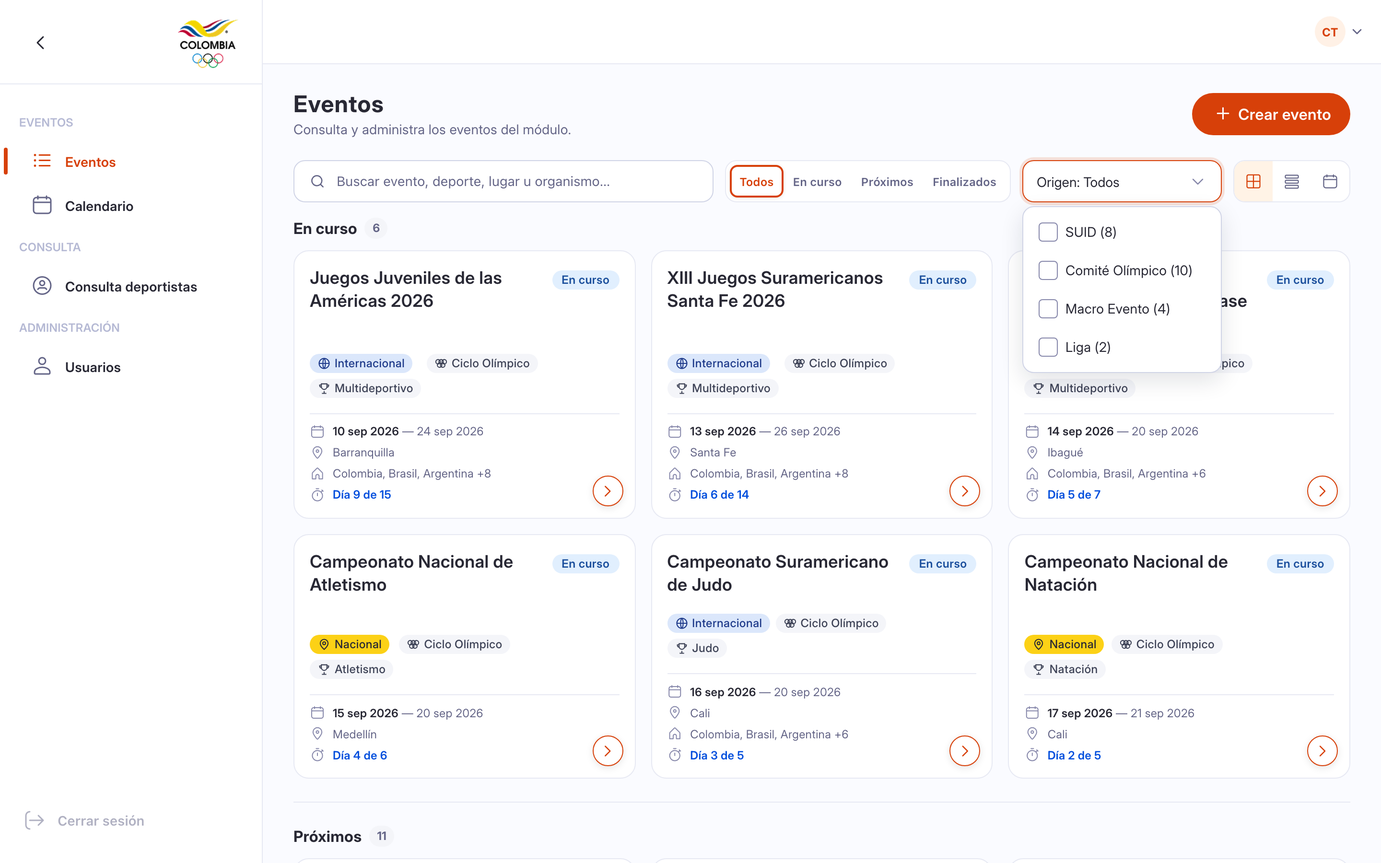
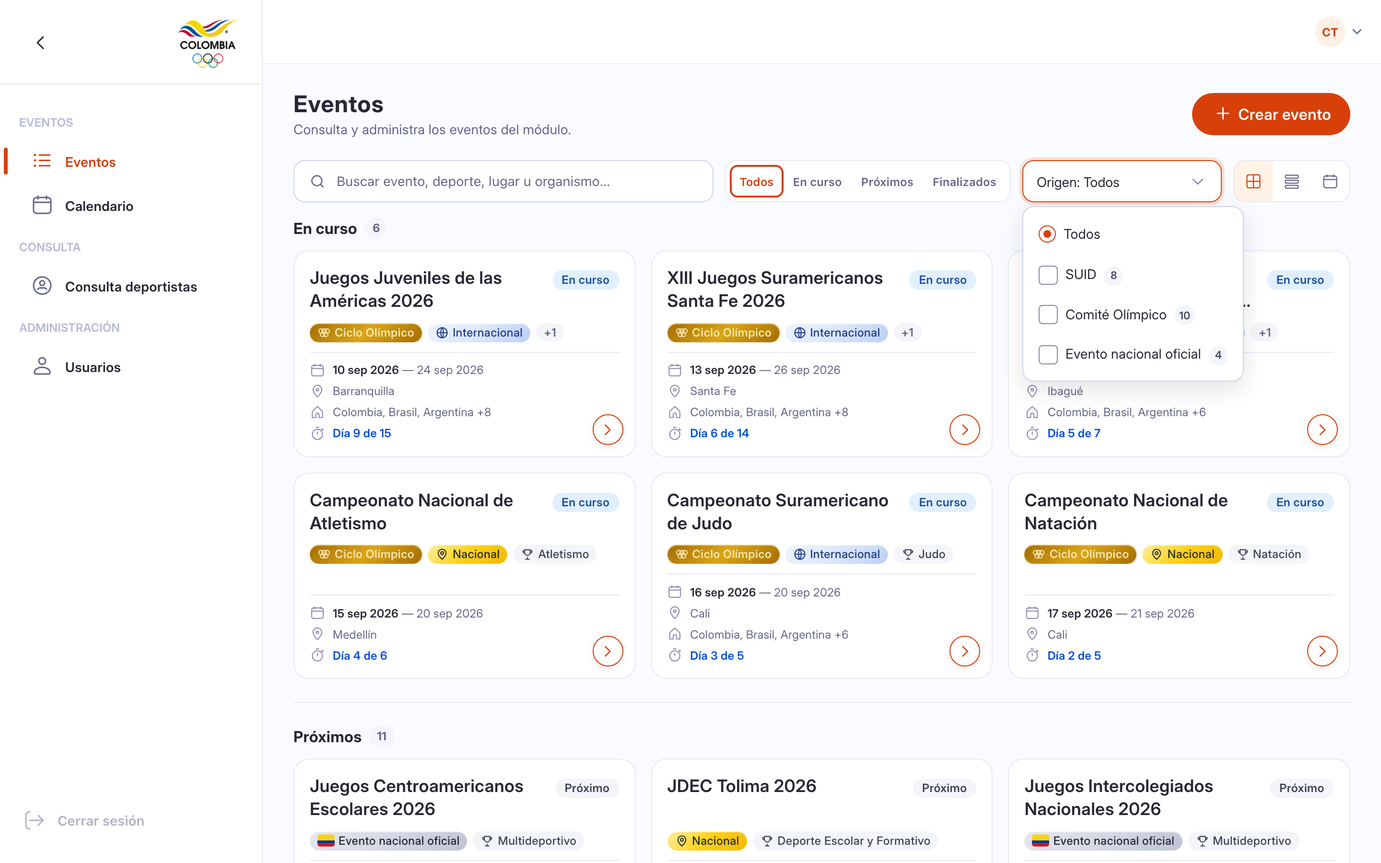
:memo: Propuesta de eventos SUID v6: Solo SUID por defecto, Comité y Liga ocultos, panel con casos

diff --git a/propuesta/index.html b/propuesta/index.html
@@ -3,7 +3,7 @@
 <head>
 <meta charset="utf-8">
 <meta name="viewport" content="width=device-width, initial-scale=1">
-<title>Eventos en SUID · Propuesta v5</title>
+<title>Eventos en SUID · Propuesta v6</title>
 <style>
 @font-face{font-family:Inter;font-weight:400;src:url(fonts/inter-regular.ttf)}
 @font-face{font-family:Inter;font-weight:500;src:url(fonts/inter-medium.ttf)}
@@ -141,7 +141,7 @@ figure{margin:0}.grid3{grid-template-columns:repeat(3,minmax(0,1fr))}.row{displa
 <main id="stage" tabindex="-1" aria-live="polite">
 <section class="slide cover" aria-label="Portada">
  <svg class="rings" width="260" height="170" viewBox="0 0 260 170" aria-hidden="true" fill="none" stroke-width="7"><circle cx="70" cy="60" r="50" stroke="#7F8DE0"/><circle cx="130" cy="108" r="50" stroke="#FFB48A"/><circle cx="190" cy="60" r="50" stroke="#7F8DE0"/></svg>
- <p class="kick">Naowee · Módulo Eventos · Versión 5</p>
+ <p class="kick">Naowee · Módulo Eventos · Versión 6</p>
  <h1>Cómo SUID crea, edita y consulta eventos</h1>
  <p class="lead">Qué eventos puede crear cada persona, qué ve en cada uno y qué falta confirmar con el equipo de backend. 30 de octubre de 2026 · Naowee</p>
  <div class="foot"><span>Datos ilustrativos · Prototipo de diseño · No refleja producción</span><span>1</span></div>
@@ -151,11 +151,12 @@ figure{margin:0}.grid3{grid-template-columns:repeat(3,minmax(0,1fr))}.row{displa
 <p class="kick">Punto de partida</p>
  <h2>Todos usan el mismo sistema; cada rol ve y hace cosas distintas</h2>
  <div class="cols">
-  <ul class="l" style="flex:1;margin-top:0;font-size:21px">
+  <ul class="l" style="flex:1;margin-top:0;font-size:19px">
    <li>Cada evento tiene un tipo guardado en el sistema (<code>event_type</code>): sencillo, completo o de Liga.</li>
-   <li><b>Evento sencillo</b> (LITE): lo crea SUID o el Comité Olímpico. <b>Evento completo</b> (FULL): vive en otro sistema. <b>Liga</b> (ULTRA_LITE): lo crea una liga.</li>
+   <li><b>Evento sencillo</b> (LITE): lo crea SUID o el Comité Olímpico. <b>Evento completo</b> (FULL): vive en otro sistema. <b>Liga</b> (ULTRA_LITE): lo crea una liga. Por ahora la demo la deja oculta.</li>
    <li>SUID puede editar un evento sencillo con el rol correcto. Un evento completo nunca se edita aquí.</li>
    <li>El sistema solo limita lo que ve el Comité Olímpico: únicamente sus eventos.</li>
+   <li>En la demo, «Roles SUID» viene en «Solo SUID»: ven y gestionan solo eventos SUID. «Ver todo» es a futuro.</li>
   </ul>
   <div style="width:340px;background:var(--navy);color:#fff;border-radius:14px;padding:26px">
    <p style="font-size:13px;letter-spacing:.1em;text-transform:uppercase;color:#FFB48A;font-weight:700">De dónde sale esto</p>
@@ -163,7 +164,7 @@ figure{margin:0}.grid3{grid-template-columns:repeat(3,minmax(0,1fr))}.row{displa
    <p style="font-size:15px;color:#C9CCE0;margin-top:12px">Todavía no se comprobó en producción.</p>
   </div>
  </div>
- <div class="band"><div><b>Protagonista</b>Lo que SUID crea y edita: eventos propios, de cinco tipos.</div><div><b>Solo consulta</b>Eventos del Comité, completos y de Liga: SUID los ve, no los edita.</div><div><b>Novedad v5</b>Pestañas por tipo y por rol, países obligatorios y calendario con aviso.</div></div>
+ <div class="band"><div><b>Protagonista</b>Lo que SUID crea y edita: eventos propios, de cinco tipos.</div><div><b>Solo consulta (a futuro)</b>Con «Ver todo», SUID también vería eventos del ciclo y completos, sin editarlos.</div><div><b>Novedad v6</b>Por defecto «Solo SUID»; Comité y Liga ocultos en la demo; panel con casos por rol.</div></div>
  <div class="foot"><span>Datos ilustrativos · Prototipo de diseño · No refleja producción</span><span>2</span></div>
 </section>
 
@@ -239,9 +240,9 @@ figure{margin:0}.grid3{grid-template-columns:repeat(3,minmax(0,1fr))}.row{displa
  <table style="font-size:18px;margin-top:16px"><thead><tr><th style="width:36%">Evento</th><th>Pestañas con un rol SUID</th></tr></thead><tbody>
  <tr><td>Competitivo SUID</td><td>Información · Cargas · Deportes · Organizaciones · Analítica</td></tr>
  <tr><td>No competitivo SUID</td><td>Información · Organizaciones · Analítica</td></tr>
- <tr><td>Del ciclo olímpico (solo consulta)</td><td>Información · Deportes · Organizaciones · Analítica</td></tr>
- <tr><td>Evento completo</td><td>Información · Deportes</td></tr>
- <tr><td>Liga</td><td>Información</td></tr>
+ <tr><td>Del ciclo olímpico (solo consulta, a futuro con «Ver todo»)</td><td>Información · Deportes · Organizaciones · Analítica</td></tr>
+ <tr><td>Evento completo (a futuro con «Ver todo»)</td><td>Información · Deportes</td></tr>
+ <tr><td>Liga (oculta por ahora)</td><td>Información</td></tr>
  </tbody></table>
  <p class="note" style="margin-top:20px;font-size:17px"><b>Solo para roles del Comité</b>Metodólogos, Calendario y resultados, Medallería y Boletines. Un rol SUID no los ve, ni siquiera en eventos SUID. <span class="tag">Decisión</span></p>
  <p class="note" style="font-size:16px"><b>Por qué</b>En un evento completo, el backend solo entrega Información y Deportes; lo demás responde error 501. <span class="tag inf">Javi</span></p>
@@ -252,9 +253,9 @@ figure{margin:0}.grid3{grid-template-columns:repeat(3,minmax(0,1fr))}.row{displa
 <p class="kick">Quién crea y quién edita</p>
  <h2 style="font-size:32px">Cada rol crea y edita solo lo suyo; lo ajeno solo se consulta</h2>
  <table style="font-size:17px;margin-top:16px"><thead><tr><th style="width:30%">Rol</th><th>Crea y edita</th><th>Solo consulta</th></tr></thead><tbody>
- <tr><td>Rol SUID (Admin Naowee)</td><td>Eventos SUID. En los eventos del ciclo no se edita.</td><td>Ciclo olímpico, completos y Liga</td></tr>
+ <tr><td>Rol SUID (Admin Naowee)</td><td>Eventos SUID. En los eventos del ciclo no se edita.</td><td>Hoy nada. A futuro, con «Ver todo»: ciclo olímpico y completos. Liga, oculta por ahora.</td></tr>
  <tr><td>Rol del Comité con permiso de crear <span class="tag">Propuesto</span></td><td>Eventos del ciclo olímpico, marcados solos</td><td>SUID, completos y Liga</td></tr>
- <tr><td>Cualquier rol</td><td>Nadie crea ni edita eventos completos ni de Liga</td><td>Completos y Liga</td></tr>
+ <tr><td>Cualquier rol</td><td>Nadie crea ni edita eventos completos ni de Liga</td><td>Completos. Liga, oculta por ahora.</td></tr>
  </tbody></table>
  <p class="note" style="margin-top:18px;font-size:16px"><b>De dónde sale</b>Es decisión de diseño de Jorge. <span class="tag">Decisión</span> Pero hoy, en el código real, «ciclo olímpico» es un interruptor del mismo formulario que usan Admin Naowee y el superusuario (SUV2&#8209;1741). Los roles del Comité no pueden crear eventos.</p>
  <p class="note" style="font-size:16px"><b>Falta confirmar con Javi</b>La regla necesita un «Administrador del Comité» que hoy no existe en el backend. <span class="tag">Por confirmar</span></p>
@@ -265,7 +266,7 @@ figure{margin:0}.grid3{grid-template-columns:repeat(3,minmax(0,1fr))}.row{displa
 <p class="kick">La regla en pantalla</p>
  <h2 style="font-size:32px">Con rol SUID, un evento del ciclo no se edita; el rol del Comité propuesto sí crea</h2>
  <div class="row">
-  <figure style="width:548px"><div class="cp" style="width:548px;height:347px"><img src="img/27-detalle-coc-sin-editar.png" alt="Detalle de un evento del ciclo olímpico con rol SUID, sin botón de edición" style="width:130.72%;left:-27.78%;top:-14.84%"></div><figcaption class="cap"><b>Ciclo olímpico con rol SUID</b> Sin botón «Editar evento». Se ven Información, Deportes, Organizaciones y Analítica.</figcaption></figure>
+  <figure style="width:548px"><div class="cp" style="width:548px;height:347px"><img src="img/27-detalle-coc-sin-editar.png" alt="Detalle de un evento del ciclo olímpico con rol SUID, sin botón de edición" style="width:130.72%;left:-27.78%;top:-14.84%"></div><figcaption class="cap"><b>Ciclo olímpico con rol SUID (a futuro, con «Ver todo»)</b> Sin botón «Editar evento». Se ven Información, Deportes, Organizaciones y Analítica.</figcaption></figure>
   <figure style="width:440px"><div class="cp" style="width:440px;height:393px"><img src="img/28-crear-rol-ciclo.png" alt="Formulario Crear evento del rol propuesto del Comité con la línea informativa" style="width:159.74%;left:-44.73%;top:-33.87%"></div><figcaption class="cap"><b>Rol del Comité (propuesto)</b> Una línea avisa: «Este evento se crea como evento del Ciclo Olímpico».</figcaption></figure>
  </div>
  <div class="foot"><span>Datos ilustrativos · Prototipo de diseño · No refleja producción</span><span>10</span></div>
@@ -273,23 +274,25 @@ figure{margin:0}.grid3{grid-template-columns:repeat(3,minmax(0,1fr))}.row{displa
 
 <section class="slide " aria-label="Lista y nombre único">
 <p class="kick">Lista y nombre único</p>
- <h2 style="font-size:32px">La lista se filtra por origen, y el nombre no se repite en ningún tipo</h2>
+ <h2 style="font-size:32px">Con «Ver todo» la lista se filtra por origen, y el nombre no se repite en ningún tipo</h2>
  <div class="row" style="gap:36px">
-  <figure style="width:600px"><div class="cp" style="width:600px;height:333px"><img src="img/23-lista-suid-tipos.png" alt="Lista de eventos con el filtro Origen abierto: SUID, Comité Olímpico, Macro Evento y Liga" style="width:130.72%;left:-27.78%;top:-14.71%"></div><figcaption class="cap"><b>Filtro Origen</b> Cuatro orígenes con su conteo: SUID, Comité Olímpico, Macro Evento (evento completo) y Liga.</figcaption></figure>
+  <figure style="width:600px"><div class="cp" style="width:600px;height:333px"><img src="img/23-lista-suid-tipos.png" alt="Lista de eventos con Ver todo y el filtro Origen abierto: SUID, Comité Olímpico y Evento nacional oficial" style="width:130.72%;left:-27.78%;top:-14.71%"></div><figcaption class="cap"><b>Filtro Origen (a futuro)</b> Tres orígenes con su conteo: SUID (8), Comité Olímpico (10) y Evento nacional oficial (4, el evento completo). Liga, oculta por ahora.</figcaption></figure>
   <figure style="width:460px"><div class="cp" style="width:460px;height:380px"><img src="img/05-nombre-duplicado.png" alt="Formulario con el nombre en error porque ya existe un evento completo con ese nombre" style="width:160.77%;left:-45.66%;top:-80.53%"></div><figcaption class="cap"><b>Nombre repetido</b> «Ya existe un evento con un nombre similar»; avisa que es un evento completo de otro sistema.</figcaption></figure>
  </div>
- <p style="font-size:14px;color:var(--muted);margin-top:12px">Al crear un evento, la lista salta hasta él y lo resalta unos segundos. El backend compara los nombres sin tildes ni mayúsculas y responde 409 si ya existe <span class="tag inf">Javi</span>. No hay botón «Agregar»: no existe modelo de vínculo en el backend.</p>
+ <p style="font-size:14px;color:var(--muted);margin-top:12px">Las tarjetas muestran el título hasta en 2 líneas, con alto fijo, y una sola línea de insignias con «+N». Al crear un evento, la lista salta hasta él y lo resalta unos segundos. El backend compara los nombres sin tildes ni mayúsculas y responde 409 si ya existe <span class="tag inf">Javi</span>. No hay botón «Agregar»: no existe modelo de vínculo en el backend.</p>
  <div class="foot"><span>Datos ilustrativos · Prototipo de diseño · No refleja producción</span><span>11</span></div>
 </section>
 
-<section class="slide " aria-label="Calendario">
-<p class="kick">Calendario</p>
- <h2 style="font-size:32px">Un mes sin eventos muestra un aviso, no una pantalla vacía</h2>
+<section class="slide " aria-label="Panel de la demo">
+<p class="kick">Panel de la demo</p>
+ <h2 style="font-size:32px">Bajo cada rol, el panel trae sus casos de demostración</h2>
  <div class="row" style="gap:32px">
-  <figure style="width:640px"><div class="cp" style="width:640px;height:405px"><img src="img/30-calendario-vacio.png" alt="Calendario de abril de 2026 vacío con el mensaje Sin eventos este mes, visto con rol del Comité" style="width:130.72%;left:-27.78%;top:-9%"></div><figcaption class="cap"><b>Rol del Comité, abril de 2026</b> El calendario solo muestra eventos que el rol puede ver.</figcaption></figure>
+  <figure style="width:380px"><div class="cp" style="width:380px;height:430px"><img src="img/32-panel-demo.png" alt="Panel de la demo abierto con el rol Administrador de eventos, su etiqueta SUID y sus casos" style="width:400%;left:-300%;top:0"></div><figcaption class="cap"><b>Administrador de eventos</b> Etiqueta SUID y casos bajo el rol.</figcaption></figure>
   <div class="side" style="flex:1">
-   <p class="note" style="font-size:16px"><b>Mensaje</b>«Sin eventos este mes. Ningún evento visible para tu rol cae en estas fechas. Cambia de mes o ajusta los filtros.»</p>
-   <p class="note" style="font-size:16px"><b>Por qué se ve vacío</b>El Comité solo ve eventos del ciclo olímpico; fuera de ellos el backend responde 404. <span class="tag inf">Javi</span></p>
+   <p class="note" style="font-size:16px"><b>Casos de demostración</b>Son 24 escenarios para recorrer la demo. No son historias aprobadas. <span class="tag">Decisión</span></p>
+   <p class="note" style="font-size:16px"><b>Roles SUID</b>Por defecto, «Solo SUID». «Ver todo» está marcado «a futuro».</p>
+   <p class="note" style="font-size:16px"><b>Comité y Liga ocultos</b>Los roles del Comité y el Metodólogo salen del selector; el código sigue. Se reactivan con <code>?comite=1</code>. Liga queda oculta por ahora: falta que Javi confirme los 3 valores de <code>event_type</code>. <span class="tag inf">Javi</span></p>
+   <p class="note" style="font-size:16px"><b>Próximamente</b>Un recorrido guiado paso a paso por cada caso, en construcción.</p>
   </div>
  </div>
  <div class="foot"><span>Datos ilustrativos · Prototipo de diseño · No refleja producción</span><span>12</span></div>
@@ -297,19 +300,20 @@ figure{margin:0}.grid3{grid-template-columns:repeat(3,minmax(0,1fr))}.row{displa
 
 <section class="slide " aria-label="Lo que SUID solo consulta">
 <p class="kick">Contexto · Lo que SUID solo consulta</p>
- <h2 style="font-size:32px">Eventos del Comité, completos y de Liga: SUID los ve, pero no los crea ni los edita</h2>
+ <h2 style="font-size:32px">A futuro, SUID consultaría eventos del Comité y completos, sin crearlos ni editarlos</h2>
  <div class="grid3" style="margin-top:16px;gap:20px">
   <div class="card" style="padding:16px 16px 16px"><span class="pill p-coc">Ciclo olímpico</span><div style="margin-top:10px"><figure style="width:331px"><div class="cp" style="width:331px;height:169px"><img src="img/29-detalle-ciclo-comite.png" alt="Evento del ciclo olímpico visto con rol del Comité, con la etiqueta Ciclo Olímpico" style="width:130.72%;left:-27.78%;top:-18.4%"></div><figcaption class="cap"><b>Visto por el Comité</b></figcaption></figure></div><p style="font-size:16px;line-height:1.4;margin-top:10px;color:var(--muted)">Evento sencillo con la etiqueta «Ciclo Olímpico». El rol del Comité lo ve completo; un rol SUID, simplificado y sin edición.</p></div>
   <div class="card" style="padding:16px 16px 16px"><span class="pill p-full">Evento completo</span><div style="margin-top:10px"><figure style="width:331px"><div class="cp" style="width:331px;height:169px"><img src="img/09-detalle-full-jin.png" alt="Evento completo con Información y Deportes" style="width:130.72%;left:-27.78%;top:-18.4%"></div><figcaption class="cap"><b>Información y Deportes</b></figcaption></figure></div><p style="font-size:16px;line-height:1.4;margin-top:10px;color:var(--muted)">Se administra en otro sistema; editarlo da error 501. Si es del ciclo, lleva dos etiquetas. <span class="tag">Por confirmar</span></p></div>
-  <div class="card" style="padding:16px 16px 16px"><span class="pill p-liga">Liga</span><div style="margin-top:10px"><figure style="width:331px"><div class="cp" style="width:331px;height:169px"><img src="img/13-detalle-liga.png" alt="Detalle de un evento de Liga con organismo y fechas" style="width:130.72%;left:-27.78%;top:-18.4%"></div><figcaption class="cap"><b>Entrada de calendario</b></figcaption></figure></div><p style="font-size:16px;line-height:1.4;margin-top:10px;color:var(--muted)">Lo crea otra organización (<code>ULTRA_LITE</code>). Sin estado ni pestañas: solo fechas, hora y enlace.</p></div>
+  <div class="card" style="padding:16px 16px 16px"><span class="pill p-liga">Liga (oculta por ahora)</span><div style="margin-top:10px"><figure style="width:331px"><div class="cp" style="width:331px;height:169px"><img src="img/13-detalle-liga.png" alt="Detalle de un evento de Liga con organismo y fechas" style="width:130.72%;left:-27.78%;top:-18.4%"></div><figcaption class="cap"><b>Entrada de calendario</b></figcaption></figure></div><p style="font-size:16px;line-height:1.4;margin-top:10px;color:var(--muted)">Lo crea otra organización (<code>ULTRA_LITE</code>). Sin estado ni pestañas: solo fechas, hora y enlace.</p></div>
  </div>
+ <p style="font-size:14px;color:var(--muted);margin-top:12px">El calendario muestra solo los eventos que el rol puede ver; un mes sin eventos da el aviso «Sin eventos este mes», no una pantalla vacía.</p>
  <div class="foot"><span>Datos ilustrativos · Prototipo de diseño · No refleja producción</span><span>13</span></div>
 </section>
 
 <section class="slide sm2" aria-label="Resultado de la auditoría">
 <p class="kick">Resultado de la auditoría de backend</p>
  <h2 style="font-size:28px">Qué confirmó Javi, qué corrigió el diseño y qué sigue abierto</h2>
- <table style="font-size:12.5px;margin-top:8px"><thead><tr><th style="width:46%">Punto de la auditoría</th><th>Efecto en el diseño</th><th>Estado</th></tr></thead><tbody><tr><td>El tipo sale de <code>event_type</code>; vacío cuenta como completo</td><td>Se derivan los 4 orígenes</td><td><span class="st s-ok">Confirmado</span></td></tr><tr><td>Que <code>event_type</code> tenga solo 3 valores</td><td>Los tipos y orígenes dependen de esto</td><td><span class="st s-pend">Por confirmar (Javi)</span></td></tr><tr><td>Marcar ciclo: Admin Naowee o <code>EVENTS_LITE_ADMIN</code>, en el mismo formulario (SUV2&#8209;1741)</td><td>Choca con la regla «SUID no marca ciclo»</td><td><span class="st s-pend">Por confirmar</span></td></tr><tr><td>Roles del Comité sin <code>event:create</code>; no existe «Administrador del Comité»</td><td>Rol del ciclo marcado «propuesto»</td><td><span class="st s-pend">Por confirmar</span></td></tr><tr><td>Un evento sencillo es deporte y prueba, sin fases ni categorías</td><td>Los 5 tipos y sus datos son de diseño</td><td><span class="st s-pend">Por confirmar</span></td></tr><tr><td>Nombre único: comparación sin tildes y error 409</td><td>Mismo mensaje; el front solo lo anticipa</td><td><span class="st s-fix">Corregido</span></td></tr><tr><td>Comité: el backend no bloquea la edición</td><td>«Solo consulta» es regla de pantalla</td><td><span class="st s-fix">Corregido</span></td></tr><tr><td>Evento completo: editar y sub-recursos v2 dan 501</td><td>Todo evento completo es de consulta</td><td><span class="st s-ok">Confirmado</span></td></tr><tr><td><code>ULTRA_LITE</code> es de Liga; crearlo da 501</td><td>SUID no lo crea; etiqueta «Liga»</td><td><span class="st s-fix">Corregido</span></td></tr><tr><td>El backend filtra solo al Comité</td><td>Comité: 404 fuera del ciclo</td><td><span class="st s-ok">Confirmado</span></td></tr><tr><td>«Agregar»: sin modelo de vínculo ni endpoint</td><td>Se retira de la fase</td><td><span class="st s-fix">Corregido</span></td></tr><tr><td>Evento completo: v2 da fases y deportes; deportistas, resultados y medallería dan 501</td><td>Solo Información y Deportes, con aviso</td><td><span class="st s-fix">Corregido</span></td></tr><tr><td>Roles reales: 7 de módulo y 1 de plataforma; no existen los 6 del PR-03</td><td>Matriz rehecha</td><td><span class="st s-fix">Corregido</span></td></tr><tr><td>Deportistas, resultados y medallería de eventos completos (viven en v1)</td><td>Sin contrato de solo lectura</td><td><span class="st s-pend">Pendiente</span></td></tr></tbody></table>
+ <table style="font-size:12.5px;margin-top:8px"><thead><tr><th style="width:46%">Punto de la auditoría</th><th>Efecto en el diseño</th><th>Estado</th></tr></thead><tbody><tr><td>El tipo sale de <code>event_type</code>; vacío cuenta como completo</td><td>Se derivan los orígenes; Liga, oculta por ahora</td><td><span class="st s-ok">Confirmado</span></td></tr><tr><td>Que <code>event_type</code> tenga solo 3 valores</td><td>Los tipos y orígenes dependen de esto</td><td><span class="st s-pend">Por confirmar (Javi)</span></td></tr><tr><td>Marcar ciclo: Admin Naowee o <code>EVENTS_LITE_ADMIN</code>, en el mismo formulario (SUV2&#8209;1741)</td><td>Choca con la regla «SUID no marca ciclo»</td><td><span class="st s-pend">Por confirmar</span></td></tr><tr><td>Roles del Comité sin <code>event:create</code>; no existe «Administrador del Comité»</td><td>Rol del ciclo marcado «propuesto»</td><td><span class="st s-pend">Por confirmar</span></td></tr><tr><td>Un evento sencillo es deporte y prueba, sin fases ni categorías</td><td>Los 5 tipos y sus datos son de diseño</td><td><span class="st s-pend">Por confirmar</span></td></tr><tr><td>Nombre único: comparación sin tildes y error 409</td><td>Mismo mensaje; el front solo lo anticipa</td><td><span class="st s-fix">Corregido</span></td></tr><tr><td>Comité: el backend no bloquea la edición</td><td>«Solo consulta» es regla de pantalla</td><td><span class="st s-fix">Corregido</span></td></tr><tr><td>Evento completo: editar y sub-recursos v2 dan 501</td><td>Todo evento completo es de consulta</td><td><span class="st s-ok">Confirmado</span></td></tr><tr><td><code>ULTRA_LITE</code> es de Liga; crearlo da 501</td><td>SUID no lo crea; etiqueta «Liga»</td><td><span class="st s-fix">Corregido</span></td></tr><tr><td>El backend filtra solo al Comité</td><td>Comité: 404 fuera del ciclo</td><td><span class="st s-ok">Confirmado</span></td></tr><tr><td>«Agregar»: sin modelo de vínculo ni endpoint</td><td>Se retira de la fase</td><td><span class="st s-fix">Corregido</span></td></tr><tr><td>Evento completo: v2 da fases y deportes; deportistas, resultados y medallería dan 501</td><td>Solo Información y Deportes, con aviso</td><td><span class="st s-fix">Corregido</span></td></tr><tr><td>Roles reales: 7 de módulo y 1 de plataforma; no existen los 6 del PR-03</td><td>Matriz rehecha</td><td><span class="st s-fix">Corregido</span></td></tr><tr><td>Deportistas, resultados y medallería de eventos completos (viven en v1)</td><td>Sin contrato de solo lectura</td><td><span class="st s-pend">Pendiente</span></td></tr></tbody></table>
  <div class="foot"><span>Datos ilustrativos · Prototipo de diseño · No refleja producción</span><span>14</span></div>
 </section>
 
@@ -317,7 +321,7 @@ figure{margin:0}.grid3{grid-template-columns:repeat(3,minmax(0,1fr))}.row{displa
 <p class="kick">Roles reales del backend</p>
  <h2 style="font-size:30px">Hay siete roles de módulo y uno de plataforma; la matriz del Ministerio sigue pendiente</h2>
  <table style="font-size:15.5px;margin-top:10px"><thead><tr><th style="width:38%">Rol (nombre oficial en nao-docs)</th><th>Qué puede hacer</th><th style="width:11%">Fuente</th></tr></thead><tbody><tr><td>Admin Naowee <span class="muted">(<code>EVENTS_LITE_ADMIN</code>)</span></td><td>Ve la lista y el detalle, edita eventos, marca y desmarca ciclo olímpico</td><td>Javi</td></tr><tr><td>Gestor de eventos Naowee <span class="muted">(<code>EVENTS_LITE_MANAGER</code>)</span></td><td>Ve la lista y el detalle; carga inscripciones, resultados y medallería</td><td>Javi</td></tr><tr><td><code>EVENTS_LITE_MODULE_USER</code></td><td>Solo lectura: eventos, deportistas y analítica</td><td>Javi</td></tr><tr><td><code>EVENTS_LITE_LEAGUE</code></td><td>Crea y edita eventos de Liga; qué más ve, <span class="tag">Pendiente</span></td><td>Javi</td></tr><tr><td><code>EVENTS_LITE_METHODOLOGIST</code></td><td>Califica desde su vista; no entra al módulo</td><td>perm.ts</td></tr><tr><td>Administrador de organismo del Comité, con «marca olímpica» <span class="muted">(<code>EVENTS_LITE_OLYMPIC_COMMITTEE</code> y <code>OLYMPIC_COMMITTEE_VIEWER</code>)</span></td><td>Solo ve eventos del ciclo; los roles de gestor y metodólogo cuelgan de esta cuenta. No puede crear eventos</td><td>nao-docs · perm.ts</td></tr><tr><td>Administrador del Comité con permiso de crear <span class="tag">Propuesto</span></td><td>No existe en el backend: crearía y editaría eventos del ciclo</td><td>Decisión</td></tr></tbody></table>
- <p style="font-size:15px;color:var(--muted);margin-top:10px">Los 6 roles del PR-03 no existen hoy. La matriz de roles del Ministerio está pendiente: compromiso C-8, a cargo de Danna.</p>
+ <p style="font-size:15px;color:var(--muted);margin-top:10px">Los 6 roles del PR-03 no existen hoy. La matriz de roles del Ministerio está pendiente: compromiso C-8, a cargo de Danna. En la demo, los roles del Comité y el Metodólogo están ocultos por ahora.</p>
  <div class="foot"><span>Datos ilustrativos · Prototipo de diseño · No refleja producción</span><span>15</span></div>
 </section>
 
@@ -332,7 +336,7 @@ figure{margin:0}.grid3{grid-template-columns:repeat(3,minmax(0,1fr))}.row{displa
 <section class="slide " aria-label="Pendientes">
 <p class="kick">Pendientes y decisiones abiertas</p>
  <h2 style="font-size:32px">Trece puntos antes de integrar</h2>
- <div class="g2" style="margin-top:12px"><div class="q"><div>Confirmar que <code>event_type</code> tiene solo 3 valores.</div><span>Javi</span></div><div class="q"><div>Modelo de vínculo en el backend, si producto quiere «Agregar» a futuro.</div><span>Producto y Javi</span></div><div class="q"><div>Contrato de solo lectura para deportistas, resultados y medallería de eventos completos.</div><span>Javi</span></div><div class="q"><div>¿El backend soporta el tipo de programa y sus datos (temas, sesiones, evaluación)?</div><span>Javi</span></div><div class="q"><div>Rol «Administrador del Comité» con permiso de crear: hoy no existe (SUV2&#8209;1741).</div><span>Javi y Jorge</span></div><div class="q"><div>¿Admin Naowee debe poder marcar ciclo desde SUID? Choca con la regla por rol.</div><span>Javi</span></div><div class="q"><div>¿Qué más ve el rol de Liga en la lista?</div><span>Javi</span></div><div class="q"><div>Cargas para eventos del ciclo y quién las hace.</div><span>Jorge</span></div><div class="q"><div>Cómo mostrar un evento completo con ciclo: hoy lleva dos etiquetas.</div><span>Producto</span></div><div class="q"><div>Regla de «solo consulta» del Comité en el backend: hoy solo en pantalla.</div><span>Jorge y Javi</span></div><div class="q"><div>Corregir PR-03 §2 («Juegos Intercolegiados Nacionales»).</div><span>Jorge y Danna</span></div><div class="q"><div>Matriz de roles del Ministerio (compromiso C-8) y si las RN son evolución o módulo nuevo.</div><span>Danna y Javi</span></div><div class="q"><div>Comprobar todo en producción: la revisión es de staging.</div><span>Javi</span></div></div>
+ <div class="g2" style="margin-top:12px"><div class="q"><div>Confirmar que <code>event_type</code> tiene solo 3 valores (Liga sigue oculta hasta entonces).</div><span>Javi</span></div><div class="q"><div>Modelo de vínculo en el backend, si producto quiere «Agregar» a futuro.</div><span>Producto y Javi</span></div><div class="q"><div>Contrato de solo lectura para deportistas, resultados y medallería de eventos completos.</div><span>Javi</span></div><div class="q"><div>¿El backend soporta el tipo de programa y sus datos (temas, sesiones, evaluación)?</div><span>Javi</span></div><div class="q"><div>Rol «Administrador del Comité» con permiso de crear: hoy no existe (SUV2&#8209;1741).</div><span>Javi y Jorge</span></div><div class="q"><div>¿Admin Naowee debe poder marcar ciclo desde SUID? Choca con la regla por rol.</div><span>Javi</span></div><div class="q"><div>¿Qué más ve el rol de Liga en la lista?</div><span>Javi</span></div><div class="q"><div>Cargas para eventos del ciclo y quién las hace.</div><span>Jorge</span></div><div class="q"><div>Cómo mostrar un evento completo con ciclo: hoy lleva dos etiquetas.</div><span>Producto</span></div><div class="q"><div>Regla de «solo consulta» del Comité en el backend: hoy solo en pantalla.</div><span>Jorge y Javi</span></div><div class="q"><div>Corregir PR-03 §2 («Juegos Intercolegiados Nacionales»).</div><span>Jorge y Danna</span></div><div class="q"><div>Matriz de roles del Ministerio (compromiso C-8) y si las RN son evolución o módulo nuevo.</div><span>Danna y Javi</span></div><div class="q"><div>Comprobar todo en producción: la revisión es de staging.</div><span>Javi</span></div></div>
  <p style="font-size:13px;color:var(--muted);margin-top:8px">A quién preguntar es una propuesta.</p>
  <div class="foot"><span>Datos ilustrativos · Prototipo de diseño · No refleja producción</span><span>17</span></div>
 </section>

diff --git a/propuesta/PROPUESTA-EVENTOS-SUID.md b/propuesta/PROPUESTA-EVENTOS-SUID.md
@@ -1,13 +1,15 @@
-# Propuesta: cómo se manejan los eventos en SUID (v5, lenguaje sencillo)
+# Propuesta: cómo se manejan los eventos en SUID (v6, lenguaje sencillo)
 
 **Autor:** Jorge Guzmán (Diseño) · **Fecha:** 30-oct-2026 · **Estado:** prototipo de diseño, revisado contra lo que dijo Javier Mercado (Javi) del backend.
+
+**Material público:** la demo y esta propuesta se sirven en `https://naowee-tech.github.io/design-naowee-eventos/` (GitHub Pages, rama main). Cualquiera con el enlace puede verlos: no deben llevar datos sensibles ni reales.
 
 Aviso: todo lo del backend viene de Javi, sobre el entorno de pruebas (staging). **No está verificado en producción.** Los eventos, fechas, sedes y enlaces del prototipo son ejemplos inventados para ilustrar.
 
 ## 1. Qué proponemos, en 5 líneas
 
 1. SUID puede **crear y editar eventos sencillos**, de cinco tipos (Competitivo, Actividad Física, Deporte Escolar y Formativo, Deporte Social Comunitario, Recreación).
-2. SUID **solo consulta** los eventos del Ciclo Olímpico, los eventos completos y los de Liga. No los crea ni los edita.
+2. SUID **solo consulta** los eventos del Ciclo Olímpico, los eventos completos y los de Liga. No los crea ni los edita. **Hoy la demo muestra a los roles SUID solo sus eventos («Solo SUID»); «ver todo» queda a futuro.**
 3. Cada rol crea y edita **solo su tipo**: un rol de SUID, los eventos de SUID; un rol del Comité Olímpico, los del ciclo.
 4. Cada tipo de evento muestra **solo las pestañas que le sirven** (un taller de salud no tiene medallas).
 5. Lo que depende del backend o de otras personas está marcado con un semáforo (sección 7).
@@ -24,6 +26,14 @@ Aviso: todo lo del backend viene de Javi, sobre el entorno de pruebas (staging).
 
 ## 3. Qué tipos de evento hay y qué puede hacer SUID
 
+**Qué muestra la demo hoy (capas del panel):**
+
+- **Roles SUID:** por defecto «Solo SUID»: ven y gestionan únicamente eventos SUID. «Ver todo» está marcado como **a futuro**: con él también verían eventos del ciclo y completos (solo consulta) y podrían filtrar por Origen.
+- **Comité Olímpico:** oculto y desconectado por defecto. Sus roles y el Metodólogo no salen en «Ver como»; su código y sus flujos siguen intactos y se reactivan con `?comite=1`. El control en el panel está oculto por ahora.
+- **Liga:** oculta en la demo mientras no se atienda. Sigue siendo parte de la propuesta y está pendiente de Javi.
+
+La tabla de abajo describe la propuesta completa, no solo lo que la demo muestra por defecto.
+
 | Tipo | Quién lo crea | Qué se ve en pantalla (rol SUID) | Pestañas (rol SUID) |
 |---|---|---|---|
 | Evento sencillo de SUID, competitivo | Rol SUID | Se puede crear y editar | Información, Cargas, Deportes, Organizaciones, Analítica |
@@ -34,7 +44,7 @@ Aviso: todo lo del backend viene de Javi, sobre el entorno de pruebas (staging).
 
 "No competitivo" quiere decir que no hay resultados ni medallas: por eso no tiene Cargas, y tampoco Deportes.
 
-En la lista y el calendario hay un filtro "Origen" (SUID, Comité Olímpico, Macro Evento, Liga) para ver cada grupo por separado. Los eventos de Liga salen al final de la lista.
+Con «Ver todo» (a futuro) la lista y el calendario tienen un filtro "Origen" (SUID, Comité Olímpico, Macro Evento, Liga). Con «Solo SUID» no hace falta. Los eventos de Liga salen al final de la lista.
 
 ## 4. Los 5 tipos que SUID puede crear
 
@@ -57,7 +67,9 @@ Datos comunes del formulario:
 - **Editar:** con un rol SUID solo se editan eventos SUID, y al editar no se muestra el selector de tipo. Editar un evento del ciclo no aplica con roles SUID.
 - **"Agregar" externos se retiró:** el backend no lo tiene.
 
-Ejemplos del prototipo (inventados): HEVS Barranquilla 2026 (Actividad Física), Campamento Juvenil Eje Cafetero (Recreación), JDEC Tolima 2026 (Escolar), 4 eventos completos y 2 de Liga. **Todavía no hay ejemplo de Deporte Social Comunitario.**
+Ejemplos del prototipo (inventados): HEVS Barranquilla 2026 (Actividad Física), Campamento Juvenil Eje Cafetero (Recreación), JDEC Tolima 2026 (Escolar), 4 eventos completos y 2 de Liga (completos y Liga no se ven con «Solo SUID»; los de Liga, además, están ocultos). **Todavía no hay ejemplo de Deporte Social Comunitario.**
+
+**Tarjetas de la lista:** el título ocupa hasta 2 líneas con alto fijo, y los badges van en una sola línea con «+N» cuando no caben.
 
 Importante: estos cinco tipos son una decisión de **diseño**. No está confirmado que el backend de eventos sencillos los soporte; Javi indicó que un evento sencillo es "deporte y prueba", sin fases ni categorías.
 
@@ -85,6 +97,10 @@ Sobre el Ciclo Olímpico: que sea "solo consulta" para SUID es una regla de pant
 
 Calendario: si un mes no tiene eventos visibles, muestra el mensaje "Sin eventos este mes".
 
+## 6b. Panel de la demo y casos por rol
+
+El avatar del encabezado abre el panel. Cada rol lleva su etiqueta (SUID o Comité) y, debajo del rol elegido, aparecen sus casos: 24 historias de demostración (`hu-demo.js`). **Son escenarios de demo, no historias aprobadas por producto.** Un recorrido guiado paso a paso por cada caso está **en construcción**.
+
 ## 7. Qué está confirmado y qué falta (semáforo)
 
 Verde = Confirmado por backend. Azul = Decisión de diseño. Rojo = Por confirmar.
@@ -92,12 +108,14 @@ Verde = Confirmado por backend. Azul = Decisión de diseño. Rojo = Por confirma
 | Tema | Estado | Dueño del pendiente |
 |---|---|---|
 | Hay tipos de evento según un campo del backend; si viene vacío, cuenta como completo | Confirmado por backend | — |
-| El backend filtra por rol solo al Comité Olímpico; el resto de roles ve todo y lo demás lo esconde la pantalla | Confirmado por backend | — |
+| El backend filtra por rol solo al Comité Olímpico; el resto de roles ve todo en el backend y lo demás lo esconde la pantalla (en la demo, «Solo SUID» lo hace por defecto) | Confirmado por backend | — |
 | Evento completo: SUID no puede editarlo (el backend responde "no implementado") | Confirmado por backend | — |
 | Evento de Liga: no se crea desde SUID; lo crea la Liga | Confirmado por backend | — |
 | Nombre único (error 409) | Confirmado por backend | — |
 | "Agregar" externos no existe | Confirmado por backend | — |
-| Que el campo del tipo de evento solo tenga 3 valores (LITE, FULL, ULTRA_LITE) | Por confirmar | Javi (preguntado hoy) |
+| Que el campo del tipo de evento solo tenga 3 valores (LITE, FULL, ULTRA_LITE) | Por confirmar | Javi (pregunta enviada el 30-oct) |
+| «Ver todo» para roles SUID (ciclo, completos y filtro Origen) | Decisión de diseño; a futuro | Jorge |
+| Comité Olímpico y Liga en la demo | Ocultos por ahora; siguen en la propuesta | Jorge y Javi |
 | Los 5 tipos de SUID y sus campos | Decisión de diseño; backend por confirmar | Javi |
 | Cada rol crea solo su tipo | Decisión de diseño; choca con el código actual | Jorge y Javi |
 | Rol "Administrador del Comité" con permiso de crear | Por confirmar (hoy no existe) | Javi y Jorge |
@@ -155,7 +173,8 @@ Por aclarar con Danna y Javi: si estas reglas son una evolución de los eventos 
 - **Liga (`ULTRA_LITE`):** solo `EVENTS_LITE_LEAGUE` lo crea desde su CRUD; `POST /v2/events` da 501 [Javi].
 - **Filtrado:** el Comité recibe solo `LITE` con ciclo (404 en el resto); los demás roles con `event:list` ven todo [Javi].
 - **Permisos por rol:** ADMIN: lista/detalle, `event:update`, `athlete:list/read`, marca y desmarca ciclo. MANAGER: `registration:write`, `result:write`, `medal:write`. MODULE_USER: `event:list`, `event:read`, `athlete:*`, `dashboard:read`. Roles del Comité: sin `event:create` [Javi, perm.ts]. Ciclo como interruptor del mismo formulario (SUV2-1741) [perm.ts].
+- **Capas de la demo:** `VER` (`?ver=todos`) y `COMITE` (`?comite=1`) en `platform/roles.js`; `puedeVer` limita a SUID salvo `ver=todos`. `MOSTRAR_LIGA = false` en `shared/data.js` oculta la Liga.
 - **Pestañas en el prototipo:** `pestanasDe` en `platform/roles.js`. Cargas solo en eventos SUID competitivos; Metodólogos, Calendario y resultados, Medallería y Boletines (`SOLO_CICLO`) solo para roles con lista de ciclo; completos: `informacion` y `deportes`; Liga: `informacion`. Deportes se oculta en eventos sin deportes (`sinDeportes`, `platform/app.js`).
 - **Formularios:** `platform/crear.js`; tipos `competitivo`, `actividad_fisica`, `escolar`, `social`, `recreacion`.
 - **Datos de ejemplo:** `shared/data.js`. Rol propuesto: `comite_admin`, código `PROPUESTO`.
-- **Matriz completa de roles:** `mapa-roles.html` y `mapa-roles.json`. Presentación: `propuesta/index.html` (16 láminas).
+- **Matriz completa de roles:** `mapa-roles.html` y `mapa-roles.json`. Presentación: `propuesta/index.html` (el número de láminas puede cambiar; otro trabajo lo está actualizando).
